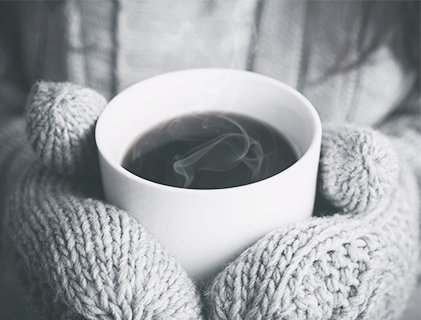
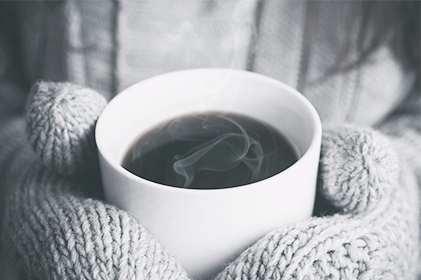
first commit

diff --git a/css/style.css b/css/style.css
@@ -51,8 +51,7 @@ a {
     text-decoration: none;
 }
 .news img {
-    width: 420px;
-    height: 280px; 
+    width: 100%;
 }
 .news h2 {
     margin: 26px 0;
@@ -87,4 +86,18 @@ input, .button {
     margin-bottom: 10px;
     margin-left: auto;
     margin-right: auto;
+}
+@media (max-width: 768px) {
+    .main { 
+        padding: 0 15px;
+    }
+}
+@media (max-width: 430px) {
+    ul.nav{
+        padding-inline-start: 0;
+    }
+    .news {
+        width: 100%;
+        margin-bottom: 40px;
+    }
 }
